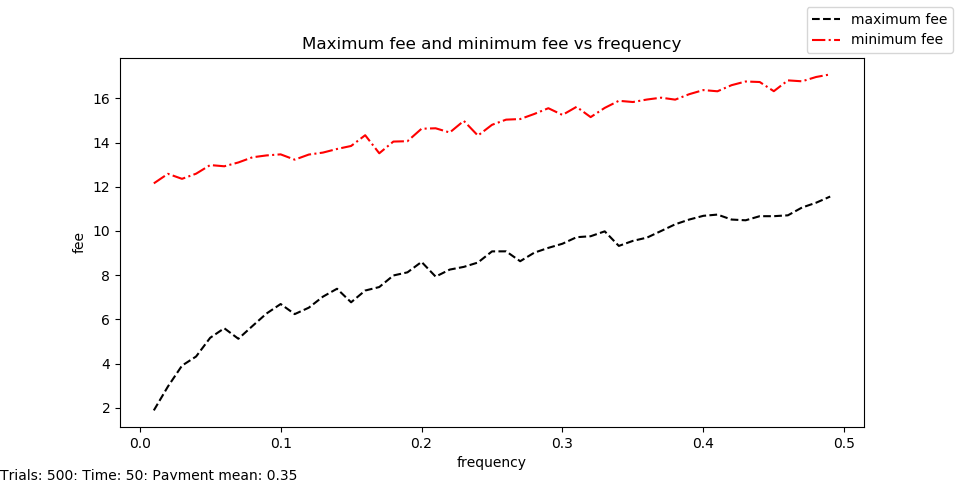
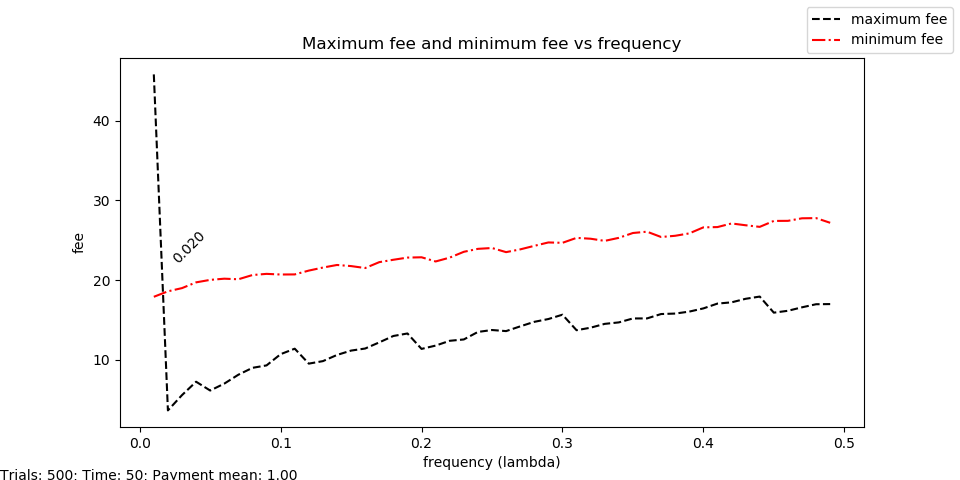
reviewing 3node

diff --git a/feeCharged.py b/feeCharged.py
@@ -84,6 +84,23 @@ def transform(points):
 
     return (xs, ys)
 
+def getMaxFee(a0, a1):
+    return a1 - a0
+
+def getMinFee(a0, a2, b0, b2):
+    b22 = b2 + a2 - a0
+    return b22 - b0
+
+
+def getFees(ps, f, time):
+    # (a0+c0, b0, a1+c1, b1, a2+c2, b2)
+    #    a0   b0   a1    b1   a2   b2
+    temp = main(p=ps, freq=f, timeRun = time)
+    return (getMaxFee(temp[0], temp[2]), getMinFee(temp[0], temp[4], temp[1], temp[5]))
+
+
+        
+
 
 ############## Constants and global variables ################
 
@@ -103,7 +120,7 @@ freqSigma = 0.05
 ############# Main functions #####################
 
 def runWithPayment(time):
-    ps = [x* 1.0 /100 for x in range(1, 80)]
+    ps = [x* 1.0 /100 for x in range(1, 50)]
 
     f = np.random.lognormal(freqMean, freqSigma)
     # random.expovariate(givenP)
@@ -221,14 +238,13 @@ def runWithPayment(time):
         fig.legend(["maximum fee", "minimum fee"])
 
 
-
-    
-
-        
-
-
-
     fig.savefig('testIntercepts.png')
+
+
+    print("checking")
+    for pt in range(len(inter)):
+
+        print(getFees(inter[pt], freqMean, time))
 
 
 ################ Call #####################

diff --git a/onFreq.py b/onFreq.py
@@ -55,8 +55,8 @@ def getIntersections(list1, list2, ps):
     for i in range(1, len(list1)):
         if list1[i] == list2[i]:
             points.append((i, list2[i]))
-        elif ((list1[i-1] > list2[i-1]) and (list1[i] < list2[i])): 
-            # or ((list1[i-1] < list2[i-1]) and (list1[i] > list2[i]))):
+        elif (((list1[i-1] > list2[i-1]) and (list1[i] < list2[i])) 
+            or ((list1[i-1] < list2[i-1]) and (list1[i] > list2[i]))):
             points.append((ps[i], (list1[i-1]+list1[i])/2))
 
     return points
@@ -95,7 +95,7 @@ time = 50
 
 givenP = 0.5
 
-paymentMean = 0.35
+paymentMean = 1
 
 paymentSigma = 0.1
 
@@ -212,7 +212,7 @@ def runWithFreq(time):
     minFee = calculateFee(bob22, bob0)
     print(minFee)
 
-    inter = getIntersections(maxFee, minFee, ps)
+    inter = getIntersections(maxFee, minFee, fs)
 
 
     titles = ['Maximum fee and minimum fee vs frequency']
